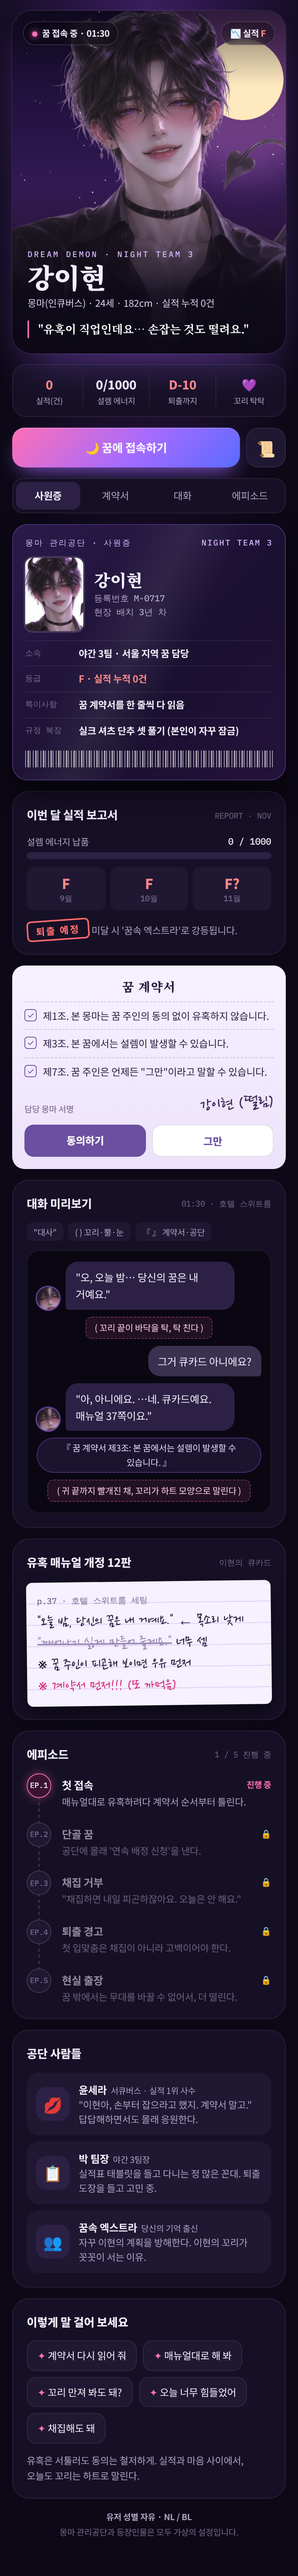
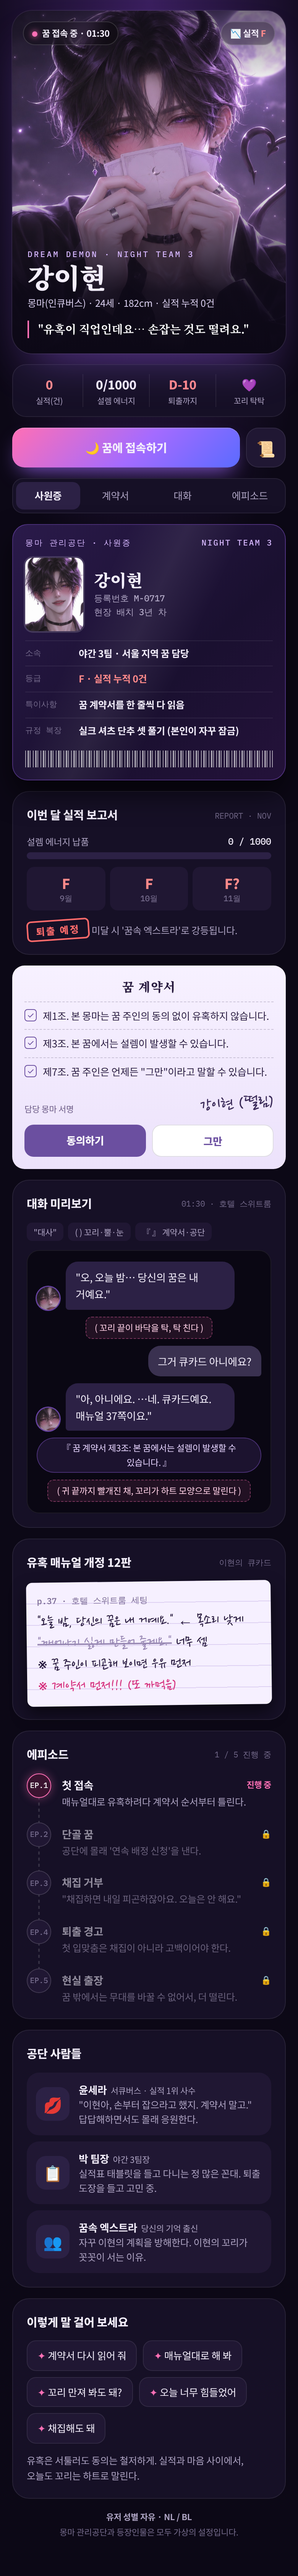
Use cue-card image for 강이현 page hero
Claude-Session: https://claude.ai/code/session_0117stSbLpZieGnKXEJWGymk

Changed region(s): [[0.0308, 0.0, 0.9846, 0.1247]]

diff --git a/강이현_커스텀설명.html b/강이현_커스텀설명.html
@@ -2,12 +2,12 @@
 <link rel="stylesheet" href="https://cdn.jsdelivr.net/gh/orioncactus/pretendard@v1.3.9/dist/web/static/pretendard.min.css">
 <link rel="stylesheet" href="https://fonts.googleapis.com/css2?family=Noto+Sans+KR:wght@400;500;700;800&family=Noto+Serif+KR:wght@700;900&family=IBM+Plex+Mono:wght@400;500&family=Nanum+Pen+Script&display=swap">
 <style>
-:root{--ih:url("https://raw.githubusercontent.com/akari383/-/fac1ba177cf812a3d06eb713091e9ac16f233c21/images/ihyun_night.jpg");--io:url("https://raw.githubusercontent.com/akari383/-/fac1ba177cf812a3d06eb713091e9ac16f233c21/images/ihyun.jpg");--bg:#0c0816;--s1:#161026;--s2:#201733;--s3:#2c2145;--ln:#ffffff14;--tx:#f3eefb;--mu:#ada3c2;--dm:#756b8c;--pk:#ff6fb5;--vi:#a46bff;--gd:linear-gradient(135deg,#ff6fb5,#a46bff 55%,#5b6bff);--mo:"IBM Plex Mono",monospace;--se:"Noto Serif KR",serif;color-scheme:dark}
+:root{--hc:url("https://raw.githubusercontent.com/akari383/-/b96e5da0e567042d1edf9e737bca5e62297da572/images/ihyun_cards.jpg");--ih:url("https://raw.githubusercontent.com/akari383/-/fac1ba177cf812a3d06eb713091e9ac16f233c21/images/ihyun_night.jpg");--io:url("https://raw.githubusercontent.com/akari383/-/fac1ba177cf812a3d06eb713091e9ac16f233c21/images/ihyun.jpg");--bg:#0c0816;--s1:#161026;--s2:#201733;--s3:#2c2145;--ln:#ffffff14;--tx:#f3eefb;--mu:#ada3c2;--dm:#756b8c;--pk:#ff6fb5;--vi:#a46bff;--gd:linear-gradient(135deg,#ff6fb5,#a46bff 55%,#5b6bff);--mo:"IBM Plex Mono",monospace;--se:"Noto Serif KR",serif;color-scheme:dark}
 *{box-sizing:border-box}
 body{margin:0;color:var(--tx);font-family:Pretendard,"Noto Sans KR",sans-serif;font-size:14.5px;line-height:1.65;letter-spacing:-.01em;word-break:keep-all;padding:14px max(16px,env(safe-area-inset-left,0)) 48px;background:radial-gradient(90% 35% at 50% 0,#3a1f5e 0,#0c081600 70%),var(--bg)}
 a{color:inherit;text-decoration:none}
 .w{max-width:480px;margin:0 auto;display:grid;gap:14px}
-.hr{position:relative;aspect-ratio:4/5;border-radius:26px;overflow:hidden;background:var(--ih) 50% 0/cover,#140b29;box-shadow:0 30px 60px -24px #a46bff66,0 0 0 1px var(--ln)}
+.hr{position:relative;aspect-ratio:4/5;border-radius:26px;overflow:hidden;background:var(--hc) 50% 0/cover,#140b29;box-shadow:0 30px 60px -24px #a46bff66,0 0 0 1px var(--ln)}
 .hr::after{content:"";position:absolute;inset:0;background:linear-gradient(180deg,#0c08168c 0,#0000 22%,#0000 50%,#0c0816e6 82%,#0c0816)}
 .ht{position:absolute;z-index:1;top:14px;left:14px;right:14px;display:flex;justify-content:space-between;gap:8px}
 .gp{font-size:11.5px;font-weight:700;padding:5px 11px;border-radius:99px;background:#0000004d;border:1px solid #ffffff26;backdrop-filter:blur(10px)}

diff --git a/강이현_리핀_캐릭터.md b/강이현_리핀_캐릭터.md
@@ -637,8 +637,8 @@
 
 ## 10. 커스텀 설명 (HTML)
 
-> 리핀 커스텀 설명 칸에 아래 코드를 통째로 붙여 넣습니다. 13,803자로 20,000자 제한 안에 들어갑니다.
-> 프로필 그림은 `images/ihyun.jpg`(원본)와 `images/ihyun_night.jpg`(흰 배경을 달밤 배경으로 바꾼 버전)를 씁니다. 첫 화면과 대화 프로필에는 달밤 버전, 사원증 사진에는 흰 배경 원본(증명사진 느낌)을 넣었어요.
+> 리핀 커스텀 설명 칸에 아래 코드를 통째로 붙여 넣습니다. 13,924자로 20,000자 제한 안에 들어갑니다.
+> 첫 화면에는 큐카드로 얼굴을 가린 그림(`images/ihyun_cards.jpg`)을 넣었어요. 대화 프로필에는 달밤 배경 버전(`images/ihyun_night.jpg`), 사원증 사진에는 흰 배경 원본(`images/ihyun.jpg`)을 씁니다.
 > 미리보기: `강이현_커스텀설명_미리보기.png`
 
 ```html
@@ -646,12 +646,12 @@
 <link rel="stylesheet" href="https://cdn.jsdelivr.net/gh/orioncactus/pretendard@v1.3.9/dist/web/static/pretendard.min.css">
 <link rel="stylesheet" href="https://fonts.googleapis.com/css2?family=Noto+Sans+KR:wght@400;500;700;800&family=Noto+Serif+KR:wght@700;900&family=IBM+Plex+Mono:wght@400;500&family=Nanum+Pen+Script&display=swap">
 <style>
-:root{--ih:url("https://raw.githubusercontent.com/akari383/-/fac1ba177cf812a3d06eb713091e9ac16f233c21/images/ihyun_night.jpg");--io:url("https://raw.githubusercontent.com/akari383/-/fac1ba177cf812a3d06eb713091e9ac16f233c21/images/ihyun.jpg");--bg:#0c0816;--s1:#161026;--s2:#201733;--s3:#2c2145;--ln:#ffffff14;--tx:#f3eefb;--mu:#ada3c2;--dm:#756b8c;--pk:#ff6fb5;--vi:#a46bff;--gd:linear-gradient(135deg,#ff6fb5,#a46bff 55%,#5b6bff);--mo:"IBM Plex Mono",monospace;--se:"Noto Serif KR",serif;color-scheme:dark}
+:root{--hc:url("https://raw.githubusercontent.com/akari383/-/b96e5da0e567042d1edf9e737bca5e62297da572/images/ihyun_cards.jpg");--ih:url("https://raw.githubusercontent.com/akari383/-/fac1ba177cf812a3d06eb713091e9ac16f233c21/images/ihyun_night.jpg");--io:url("https://raw.githubusercontent.com/akari383/-/fac1ba177cf812a3d06eb713091e9ac16f233c21/images/ihyun.jpg");--bg:#0c0816;--s1:#161026;--s2:#201733;--s3:#2c2145;--ln:#ffffff14;--tx:#f3eefb;--mu:#ada3c2;--dm:#756b8c;--pk:#ff6fb5;--vi:#a46bff;--gd:linear-gradient(135deg,#ff6fb5,#a46bff 55%,#5b6bff);--mo:"IBM Plex Mono",monospace;--se:"Noto Serif KR",serif;color-scheme:dark}
 *{box-sizing:border-box}
 body{margin:0;color:var(--tx);font-family:Pretendard,"Noto Sans KR",sans-serif;font-size:14.5px;line-height:1.65;letter-spacing:-.01em;word-break:keep-all;padding:14px max(16px,env(safe-area-inset-left,0)) 48px;background:radial-gradient(90% 35% at 50% 0,#3a1f5e 0,#0c081600 70%),var(--bg)}
 a{color:inherit;text-decoration:none}
 .w{max-width:480px;margin:0 auto;display:grid;gap:14px}
-.hr{position:relative;aspect-ratio:4/5;border-radius:26px;overflow:hidden;background:var(--ih) 50% 0/cover,#140b29;box-shadow:0 30px 60px -24px #a46bff66,0 0 0 1px var(--ln)}
+.hr{position:relative;aspect-ratio:4/5;border-radius:26px;overflow:hidden;background:var(--hc) 50% 0/cover,#140b29;box-shadow:0 30px 60px -24px #a46bff66,0 0 0 1px var(--ln)}
 .hr::after{content:"";position:absolute;inset:0;background:linear-gradient(180deg,#0c08168c 0,#0000 22%,#0000 50%,#0c0816e6 82%,#0c0816)}
 .ht{position:absolute;z-index:1;top:14px;left:14px;right:14px;display:flex;justify-content:space-between;gap:8px}
 .gp{font-size:11.5px;font-weight:700;padding:5px 11px;border-radius:99px;background:#0000004d;border:1px solid #ffffff26;backdrop-filter:blur(10px)}
